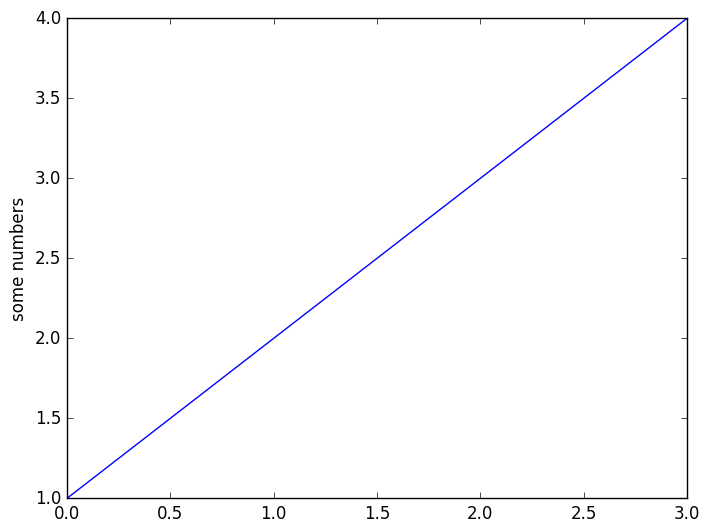
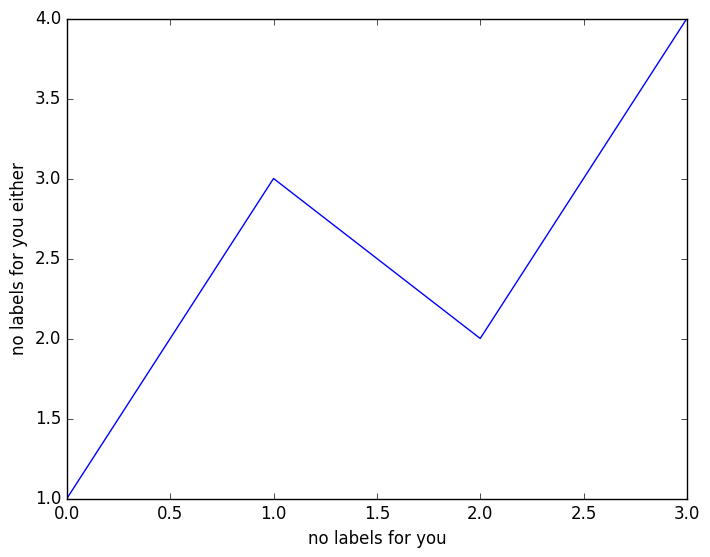
improvement on python post

diff --git a/_site/omg-python/index.html b/_site/omg-python/index.html
@@ -85,20 +85,22 @@ and I’ve learned some <code class="highlighter-rouge">Python</code> already, s
 running <code class="highlighter-rouge">Python</code> code blocks, and with a little magic, even lets you include 
 <code class="highlighter-rouge">matplotlib</code> graphics. So cool. Quick demo:</p>
 
-<div class="language-python highlighter-rouge"><pre class="highlight"><code><span class="c">#demo 1</span>
-<span class="k">def</span> <span class="nf">hello</span><span class="p">(</span> <span class="n">nombre</span> <span class="p">):</span>
-  <span class="k">print</span> <span class="s">"hello"</span> <span class="o">+</span> <span class="n">nombre</span>
+<div class="language-python highlighter-rouge"><pre class="highlight"><code><span class="k">def</span> <span class="nf">hello</span><span class="p">(</span> <span class="n">nombre</span> <span class="p">):</span>
+  <span class="k">print</span> <span class="s">"hello, "</span> <span class="o">+</span> <span class="n">nombre</span>
 
-<span class="n">hello</span><span class="p">(</span><span class="s">"python"</span><span class="p">)</span>
-
-<span class="kn">import</span> <span class="nn">matplotlib.pyplot</span> <span class="kn">as</span> <span class="nn">plt</span>
-<span class="n">plt</span><span class="o">.</span><span class="n">plot</span><span class="p">([</span><span class="mi">1</span><span class="p">,</span><span class="mi">2</span><span class="p">,</span><span class="mi">3</span><span class="p">,</span><span class="mi">4</span><span class="p">])</span>
-<span class="n">plt</span><span class="o">.</span><span class="n">ylabel</span><span class="p">(</span><span class="s">'some numbers'</span><span class="p">)</span>
-<span class="n">plt</span><span class="o">.</span><span class="n">savefig</span><span class="p">(</span><span class="s">'../figures/pyTest.png'</span><span class="p">,</span> <span class="n">bbox_inches</span><span class="o">=</span><span class="s">'tight'</span><span class="p">)</span>
+<span class="n">hello</span><span class="p">(</span><span class="s">"Python"</span><span class="p">)</span>
 </code></pre>
 </div>
 
-<div class="highlighter-rouge"><pre class="highlight"><code>## hellopython
+<div class="highlighter-rouge"><pre class="highlight"><code>## hello, Python
+</code></pre>
+</div>
+
+<div class="language-python highlighter-rouge"><pre class="highlight"><code><span class="kn">import</span> <span class="nn">matplotlib.pyplot</span> <span class="kn">as</span> <span class="nn">plt</span>
+<span class="n">plt</span><span class="o">.</span><span class="n">plot</span><span class="p">([</span><span class="mi">1</span><span class="p">,</span><span class="mi">3</span><span class="p">,</span><span class="mi">2</span><span class="p">,</span><span class="mi">4</span><span class="p">])</span>
+<span class="n">plt</span><span class="o">.</span><span class="n">ylabel</span><span class="p">(</span><span class="s">"no labels for you either"</span><span class="p">)</span>
+<span class="n">plt</span><span class="o">.</span><span class="n">xlabel</span><span class="p">(</span><span class="s">"no labels for you"</span><span class="p">)</span>
+<span class="n">plt</span><span class="o">.</span><span class="n">savefig</span><span class="p">(</span><span class="s">'../figures/pyTest.png'</span><span class="p">,</span> <span class="n">bbox_inches</span><span class="o">=</span><span class="s">'tight'</span><span class="p">)</span>
 </code></pre>
 </div>
 

diff --git a/_posts/2016-09-08-omg-python.md b/_posts/2016-09-08-omg-python.md
@@ -18,20 +18,25 @@ running `Python` code blocks, and with a little magic, even lets you include
 
 
 ```python
-#demo 1
 def hello( nombre ):
-  print "hello" + nombre
+  print "hello, " + nombre
 
-hello("python")
+hello("Python")
+```
 
+```
+## hello, Python
+```
+
+
+
+
+```python
 import matplotlib.pyplot as plt
-plt.plot([1,2,3,4])
-plt.ylabel('some numbers')
+plt.plot([1,3,2,4])
+plt.ylabel("no labels for you either")
+plt.xlabel("no labels for you")
 plt.savefig('../figures/pyTest.png', bbox_inches='tight')
-```
-
-```
-## hellopython
 ```
 
 
